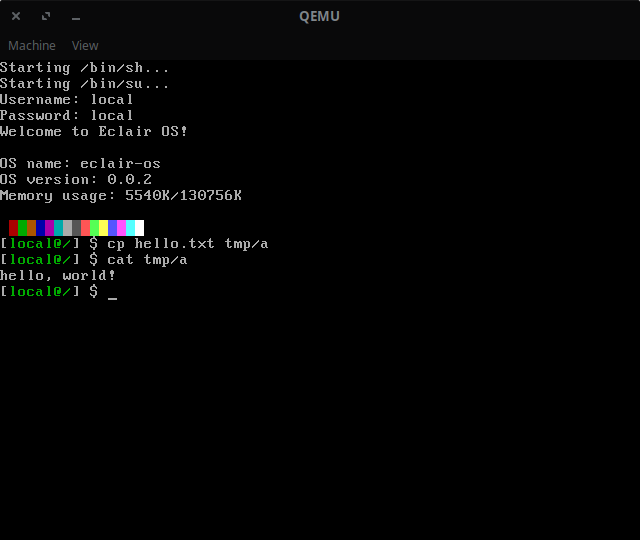
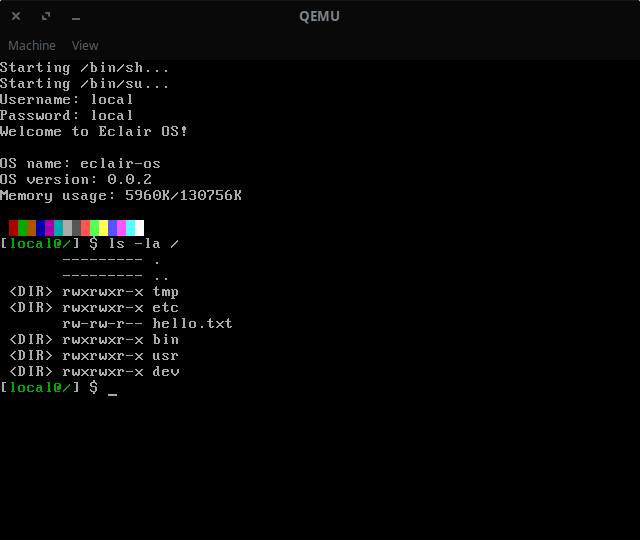
Add getopt to libc

Changed region(s): [[0.0, 0.4444, 0.4062, 0.7407], [0.2188, 0.5333, 0.375, 0.7111], [0.2188, 0.3556, 0.25, 0.3852]]

diff --git a/bin/gfx.c b/bin/gfx.c
@@ -7,6 +7,7 @@
 #include <stdlib.h>
 #include <string.h>
 #include <errno.h>
+#include <unistd.h>
 #include <ec/device.h>
 #include <ec/image.h>
 #include <ec.h>
@@ -14,6 +15,34 @@
 static int fd = -1; /* framebuffer file descriptor */
 static void *fb_addr = NULL; /* framebuffer address */
 static int cursor = 1; /* cursor state */
+
+enum {
+	OPT_HELP_BIT = 0x1,
+};
+static int opt_flags = 0;
+
+static const char *arg_time = "25";
+static const char *arg_path = "/usr/share/logo1.rbn";
+
+/* parse arguments */
+static int parse_args(int argc, const char **argv) {
+
+	int opt;
+	while ((opt = getopt(argc, argv, "ht:")) != -1) {
+		switch (opt) {
+			case 't':
+				arg_time = optarg;
+				break;
+			case 'h':
+				opt_flags |= OPT_HELP_BIT;
+			default:
+				fprintf(stderr, "Usage: %s [-h] [-t time] [path]\n", argv[0]);
+				return opt_flags & OPT_HELP_BIT? 0: -1;
+		}
+	}
+	if (optind < argc) arg_path = argv[optind];
+	return 0;
+}
 
 /* flip cursor state */
 static int flipcursor(void) {
@@ -58,7 +87,12 @@ static void clearscreen(ecio_fbinfo_t *fbinfo) {
 }
 
 /* run application */
-static int run(void) {
+static int run(int argc, const char **argv) {
+
+	if (parse_args(argc, argv) < 0)
+		return 1;
+	if (opt_flags & OPT_HELP_BIT)
+		return 0;
 
 	(void)flipcursor();
 
@@ -101,7 +135,7 @@ static int run(void) {
 
 	/* load image */
 	ec_image_t image = EC_IMAGE_INIT;
-	if (ec_image_open(&image, "/usr/share/logo1.rbn", EC_IMAGE_FORMAT_RBN)) {
+	if (ec_image_open(&image, arg_path, EC_IMAGE_FORMAT_RBN)) {
 
 		fprintf(stderr, "Failed to load image: %s\n", strerror(errno));
 		return 1;
@@ -133,9 +167,15 @@ static int run(void) {
 
 	/* wait and clear screen */
 	ec_timeval_t tv = {
-		.sec = 2,
-		.nsec = 500000000,
+		.sec = 0,
+		.nsec = 0,
 	};
+	for (; *arg_time >= '0' && *arg_time <= '9'; arg_time++) {
+
+		if (!*(arg_time+1))
+			tv.nsec = (uint64_t)(*arg_time-'0') * 100000000;
+		else tv.sec = (tv.sec * 10) + (uint64_t)(*arg_time-'0');
+	}
 	ec_sleepns(&tv);
 
 	clearscreen(&fbinfo);
@@ -149,9 +189,9 @@ static void cleanup(void) {
 	if (!cursor) (void)flipcursor();
 }
 
-int main() {
+int main(int argc, const char **argv) {
 
-	int code = run();
+	int code = run(argc, argv);
 	cleanup();
 	return code;
 }

diff --git a/bin/sh.c b/bin/sh.c
@@ -8,6 +8,7 @@
 #include <string.h>
 #include <errno.h>
 #include <stdbool.h>
+#include <unistd.h>
 #include <ec.h>
 
 #define PATH "/bin"
@@ -20,7 +21,8 @@ static ec_uinfo_t uinfo; /* user info */
 
 /* options */
 enum {
-	OPT_REPL = 0x1,
+	OPT_HELP_BIT = 0x1,
+	OPT_REPL_BIT = 0x2,
 };
 static int opt_flags = 0;
 static const char *runpath = NULL;
@@ -358,30 +360,20 @@ static void print_prompt(void) {
 /* parse arguments */
 static int parse_args(int argc, const char **argv) {
 
-	for (int i = 1; i < argc; i++) {
-
-		const char *arg = argv[i];
-		if (*arg == '-') {
-
-			arg++;
-			while (*arg) {
-
-				char c = *arg++;
-				switch (c) {
-					case 'r':
-						opt_flags |= OPT_REPL;
-						break;
-					default:
-						fprintf(stderr, "%s: Invalid option '-%c'\nUsage: %s [-r] [path]", progname, c, progname);
-						return -1;
-				}
-			}
-		}
-		else {
-			runpath = arg;
-			break;
+	int opt;
+	while ((opt = getopt(argc, argv, "hr")) != -1) {
+		switch (opt) {
+			case 'r': /* repl */
+				opt_flags |= OPT_REPL_BIT;
+				break;
+			case 'h': /* help */
+				opt_flags |= OPT_HELP_BIT;
+			default:
+				fprintf(stderr, "Usage: %s [-h] [-r] [path]\n", progname);
+				return opt_flags & OPT_HELP_BIT? 0: 1;
 		}
 	}
+	if (optind < argc) runpath = argv[optind];
 	return 0;
 }
 
@@ -398,7 +390,7 @@ int main(int argc, const char **argv) {
 	if (runpath) {
 		
 		eval_file(runpath);
-		if (!(opt_flags & OPT_REPL)) return 0;
+		if (!(opt_flags & OPT_REPL_BIT)) return 0;
 	}
 
 	linebuf[0] = 0;

diff --git a/bin/ls.c b/bin/ls.c
@@ -7,7 +7,15 @@
 #include <stdlib.h>
 #include <string.h>
 #include <errno.h>
+#include <unistd.h>
 #include <ec.h>
+
+enum {
+	OPT_HELP_BIT = 0x1,
+	OPT_LONG_BIT = 0x2,
+	OPT_ALL_BIT = 0x4,
+};
+static int opt_flags = 0;
 
 /* print file mode */
 static void print_mode(uint32_t mask) {
@@ -30,7 +38,24 @@ static void print_mode(uint32_t mask) {
 int main(int argc, const char **argv) {
 
 	const char *path = getenv("PWD");
-	if (argc >= 2) path = argv[1];
+
+	int opt;
+	while ((opt = getopt(argc, argv, "hla")) != -1) {
+		switch (opt) {
+			case 'l':
+				opt_flags |= OPT_LONG_BIT;
+				break;
+			case 'a':
+				opt_flags |= OPT_ALL_BIT;
+				break;
+			case 'h':
+				opt_flags |= OPT_HELP_BIT;
+			default:
+				fprintf(stderr, "Usage: %s [-h] [-la] [path]\n", argv[0]);
+				return opt_flags & OPT_HELP_BIT? 0: 1;
+		}
+	}
+	if (optind < argc) path = argv[optind];
 
 	if (!path) return 1;
 
@@ -41,13 +66,18 @@ int main(int argc, const char **argv) {
 	while (!(res = ec_readdir(pstr, &dent))) {
 
 		pstr = NULL;
+		if (!(opt_flags & OPT_ALL_BIT) && *dent.name == '.')
+			continue;
 
-		if (dent.flags & ECS_DIR) printf(" <DIR> ");
-		else printf("       ");
+		if (opt_flags & OPT_LONG_BIT) {
 
-		print_mode(dent.mask);
+			if (dent.flags & ECS_DIR) printf(" <DIR> ");
+			else printf("       ");
 
-		printf(" %s\n", dent.name);
+			print_mode(dent.mask);
+			fputc(' ', stdout);
+		}
+		printf("%s\n", dent.name);
 	}
 	if (res < 0) {
 

diff --git a/libc/getopt.c b/libc/getopt.c
@@ -1,0 +1,69 @@
+#include <stdio.h>
+#include <string.h>
+#include <unistd.h>
+
+static const char *s_optstring = NULL;
+const char *optarg = NULL;
+int optind = 0;
+static const char *arg = NULL;
+static int index = 0;
+
+extern int getopt(int argc, const char *const *argv, const char *optstring) {
+
+	/* reset state */
+	if (s_optstring != optstring) {
+
+		s_optstring = optstring;
+		optarg = NULL;
+		optind = 1;
+		index = 1;
+		arg = NULL;
+	}
+
+	/* parse arguments */
+	while (index < argc || (arg && *arg)) {
+
+		if (!arg || !*arg) {
+
+			arg = argv[index++];
+			if (*arg != '-') {
+
+				arg = NULL;
+				continue;
+			}
+		}
+
+		for (arg++; *arg; arg++) {
+
+			const char *opt = strchr(optstring, *arg);
+			if (!opt || *opt == ':') {
+
+				fprintf(stderr, "%s: Unrecognized option '-%c'\n",
+					argv[0], *arg);
+				return '?';
+			}
+			optind = index;
+
+			if (*(opt+1) != ':') return *arg;
+
+			/* option value immediately after */
+			if (*(arg+1)) {
+
+				optarg = arg+1;
+				arg = NULL;
+			}
+
+			/* option value in next argument */
+			else if (!argv[index]) {
+
+				fprintf(stderr, "%s: Expected argument after option '-%c'\n",
+					argv[0], *arg);
+				return '?';
+			}
+			else optarg = argv[index++];
+			optind = index;
+			return *opt;
+		}
+	}
+	return -1;
+}

diff --git a/bin/sysinfo.c b/bin/sysinfo.c
@@ -5,24 +5,44 @@
  */
 #include <stdio.h>
 #include <stdlib.h>
+#include <unistd.h>
 #include <ec.h>
 
-int main() {
+int main(int argc, const char **argv) {
+
+	int opt;
+	int fhelp = 0, fcolor = 0;
+	while ((opt = getopt(argc, argv, "hc")) != -1) {
+		switch (opt) {
+			case 'c':
+				fcolor++;
+				break;
+			case 'h':
+				fhelp++;
+			default:
+				fprintf(stderr, "Usage: %s [-h] [-c]\n", argv[0]);
+				return fhelp? 0: 1;
+		}
+	}
 
 	ec_kinfo_t info;
 	ec_kinfo(&info);
 
 	printf("OS name: %s\n"
 	       "OS version: %hhu.%hhu.%hhu\n"
-	       "Memory usage: %juK/%juK\n\n",
+	       "Memory usage: %juK/%juK\n",
 	       info.name,
 	       info.version[0], info.version[1], info.version[2],
 	       (info.mem_total - info.mem_free) >> 10, info.mem_total >> 10);
 
-	for (int i = 0; i < 8; i++)
-		printf("\e[4%dm ", i);
-	for (int i = 0; i < 8; i++)
-		printf("\e[2;4%dm ", i);
-	printf("\e[0m\n");
+	if (fcolor) {
+
+		fputc('\n', stdout);
+		for (int i = 0; i < 8; i++)
+			printf("\e[4%dm ", i);
+		for (int i = 0; i < 8; i++)
+			printf("\e[2;4%dm ", i);
+		printf("\e[0m\n");
+	}
 	return 0;
 }

diff --git a/tools/mod-libc.py b/tools/mod-libc.py
@@ -20,6 +20,7 @@ def module():
                             ('crt0.c'),
                             ('ec.c', 'ec.h'),
                             ('errno.c', 'errno.h'),
+                            ('getopt.c', 'unistd.h'),
                             ('printf.c', 'stdio.h'),
                             ('stdio.c', 'stdio.h'),
                             ('stdlib.c', 'stdlib.h'),

diff --git a/include/unistd.h b/include/unistd.h
@@ -1,0 +1,16 @@
+/*
+ * Copyright 2025-2026, Elliot Kohlmyer
+ *
+ * SPDX-License-Identifier: BSD-3-Clause
+ *
+ * This is primarily just a stub header for getopt.
+ */
+#ifndef _UNISTD_H
+#define _UNISTD_H 1
+
+extern int getopt(int argc, const char *const *argv, const char *optstring);
+
+extern const char *optarg;
+extern int optind;
+
+#endif /* _UNISTD_H */
